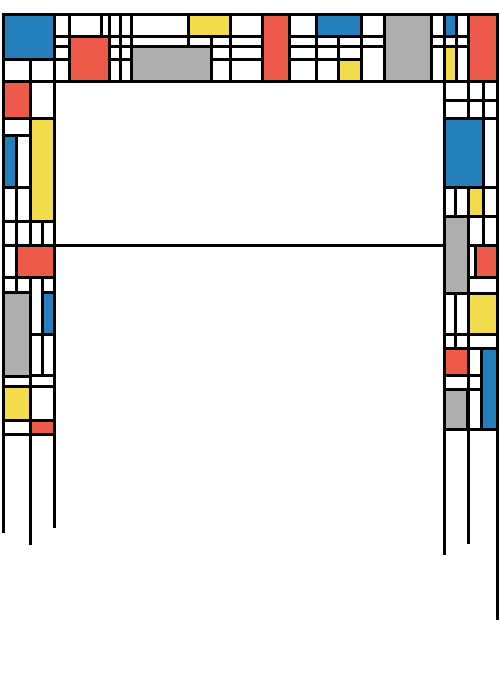
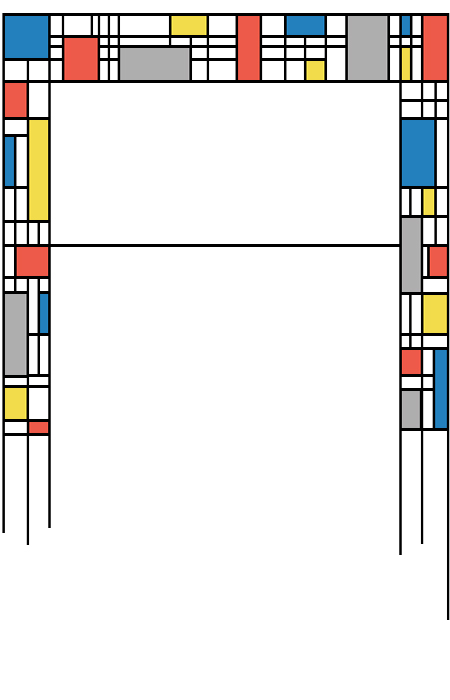
CSS Zen Garden small screen edit

diff --git a/day_19/css/style.css b/day_19/css/style.css
@@ -56,9 +56,9 @@ table {
     font-weight: 700;
     color: #EC5A49;
     text-align: center;
-    padding-top: 23%;
+    padding-top: 27%;
     padding-bottom: 2%;
-    font-size: 42px; }
+    font-size: 35px; }
   .intro h2 {
     font-family: Montserrat Subrayada, sans-serif;
     font-weight: 700;
@@ -66,14 +66,14 @@ table {
     text-align: center;
     padding-bottom: 12%;
     max-width: 320px;
-    font-size: 30px;
+    font-size: 28px;
     margin: 0 auto; }
   .intro .summary {
     background-color: #afaeaf;
     border: 4px solid black;
-    width: 71%;
+    width: 60%;
     margin: 0 auto;
-    padding: 1%; }
+    padding: 1% 0; }
     .intro .summary :nth-child(2) {
       padding-top: 1%;
       text-align: center; }
@@ -93,7 +93,7 @@ table {
       font-family: Roboto Slab, serif;
       margin: 0 auto;
       padding: 1% 2%;
-      font-size: 13px;
+      font-size: 12.5px;
       font-weight: 300;
       line-height: 120%;
       color: white; }
@@ -164,15 +164,15 @@ table {
     text-decoration: underline;
     text-decoration-color: #f3da4b; }
   .main-supporting .participation, .main-supporting .benefits, .main-supporting .requirements {
-    width: 77%;
-    margin-left: 11%;
+    width: 76%;
+    margin-left: 11.3%;
     border: 4px solid black;
     padding: 1% 0 2% 0;
     background-color: #257FBB;
     margin-top: 2%; }
   .main-supporting .explanation {
-    width: 77%;
-    margin-left: 11%;
+    width: 76%;
+    margin-left: 11.3%;
     border: 4px solid black;
     padding: 1% 0 2% 0;
     background-color: #257FBB; }
@@ -297,21 +297,20 @@ table {
       padding-bottom: 3%;
       text-align: center; }
 
-@media screen and (min-width: 650px) {
+@media screen and (min-width: 600px) {
   body {
-    max-width: 800px;
     margin: 0 auto; }
 
   .intro {
     background: url(../images/header_background_medium.jpg) 0 0 no-repeat;
     background-size: 100%; }
     .intro h1 {
-      font-size: 50px;
+      font-size: 47px;
       padding-top: 22%;
       padding-bottom: 2%; }
     .intro h2 {
       padding-bottom: 9%;
-      font-size: 36px;
+      font-size: 35px;
       max-width: 400px; }
     .intro .summary {
       width: 62%; }
@@ -355,7 +354,7 @@ table {
     font-size: 38px; }
   .sidebar .zen-resources h3 {
     font-size: 38px; } }
-@media screen and (min-width: 950px) {
+@media screen and (min-width: 875px) {
   body {
     max-width: 1130px;
     margin: 0 auto; }
@@ -365,7 +364,7 @@ table {
     background-size: 100%;
     margin: 0 auto; }
     .intro h1 {
-      font-size: 65px;
+      font-size: 60px;
       padding-bottom: 1%;
       padding-top: 17%; }
     .intro h2 {

diff --git a/day_19/css/style.scss b/day_19/css/style.scss
@@ -14,9 +14,9 @@
 		font-weight: 700;
 		color: $primary-color;
 		text-align: center;
-		padding-top: 23%;
+		padding-top: 27%;
 		padding-bottom: 2%;
-		font-size: 42px;
+		font-size: 35px;
 	}
 
 	h2 {
@@ -26,16 +26,16 @@
 		text-align: center;
 		padding-bottom: 12%;
 		max-width: 320px;
-		font-size: 30px;
+		font-size: 28px;
 		margin: 0 auto;
 	}
 
 	.summary {
 		background-color: $secondary-accent-color;
 		border: $primary-border;
-		width: 71%;
+		width: 60%;
 		margin: 0 auto;
-		padding: 1%;
+		padding: 1% 0;
 
 		:nth-child(2) {
 			padding-top: 1%;
@@ -67,7 +67,7 @@
 			font-family: $paragraph-font;
 			margin: 0 auto;
 			padding: 1% 2%;
-			font-size: 13px;
+			font-size: 12.5px;
 			font-weight: 300;
 			line-height: 120%;
 			color: white;
@@ -304,10 +304,10 @@
 	}
 }
 
-@media screen and (min-width: 650px) {
+@media screen and (min-width: 600px) {
 
 	body {
-		max-width: 800px;
+		// max-width: 800px;
 		margin: 0 auto;
 	}
 
@@ -316,14 +316,14 @@
 		background-size: 100%;
 
 		h1 {
-			font-size: 50px;
+			font-size: 47px;
 			padding-top: 22%;
 			padding-bottom: 2%;
 		}
 
 		h2 {
 			padding-bottom: 9%;
-			font-size: 36px;
+			font-size: 35px;
 			max-width: 400px;
 		}
 
@@ -409,7 +409,7 @@
 	}
 }
 
-@media screen and (min-width: 950px) {
+@media screen and (min-width: 875px) {
 
 	body {
 		max-width: 1130px;
@@ -422,7 +422,7 @@
 		margin: 0 auto;
 
 		h1 {
-			font-size: 65px;
+			font-size: 60px;
 			padding-bottom: 1%;
 			padding-top: 17%;
 		}

diff --git a/day_19/css/_mixins.scss b/day_19/css/_mixins.scss
@@ -1,6 +1,6 @@
 @mixin main-box {
-	width: 77%;
-	margin-left: 11%;
+	width: 76%;
+	margin-left: 11.3%;
 	border: $primary-border;
 	padding: 1% 0 2% 0;
 	background-color: $secondary-color;
